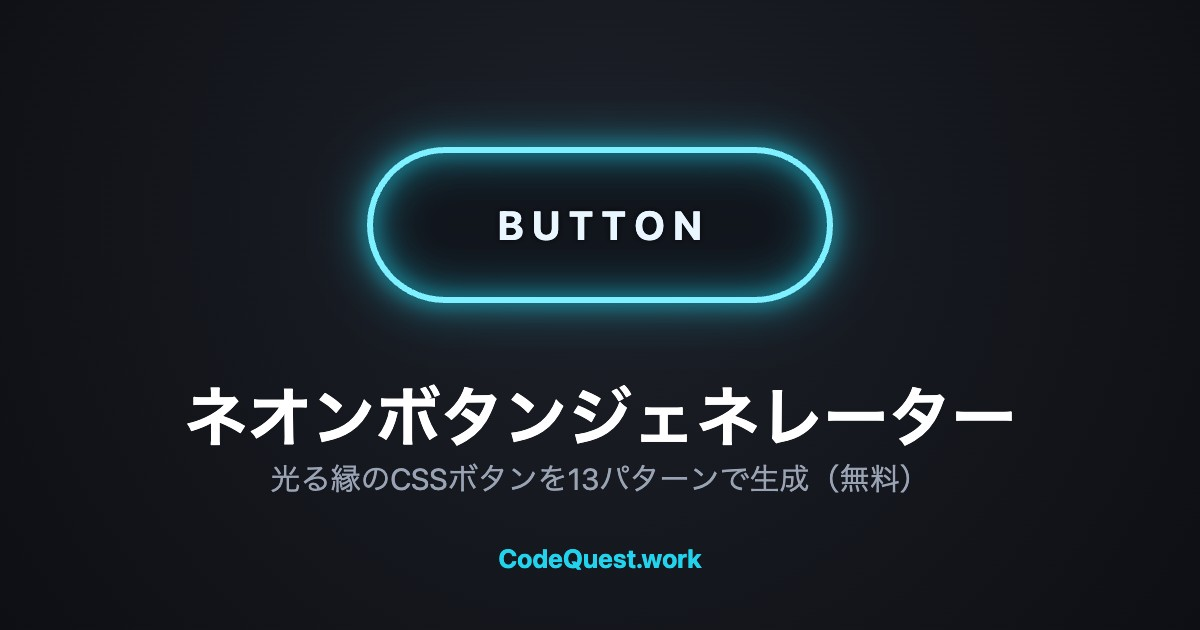
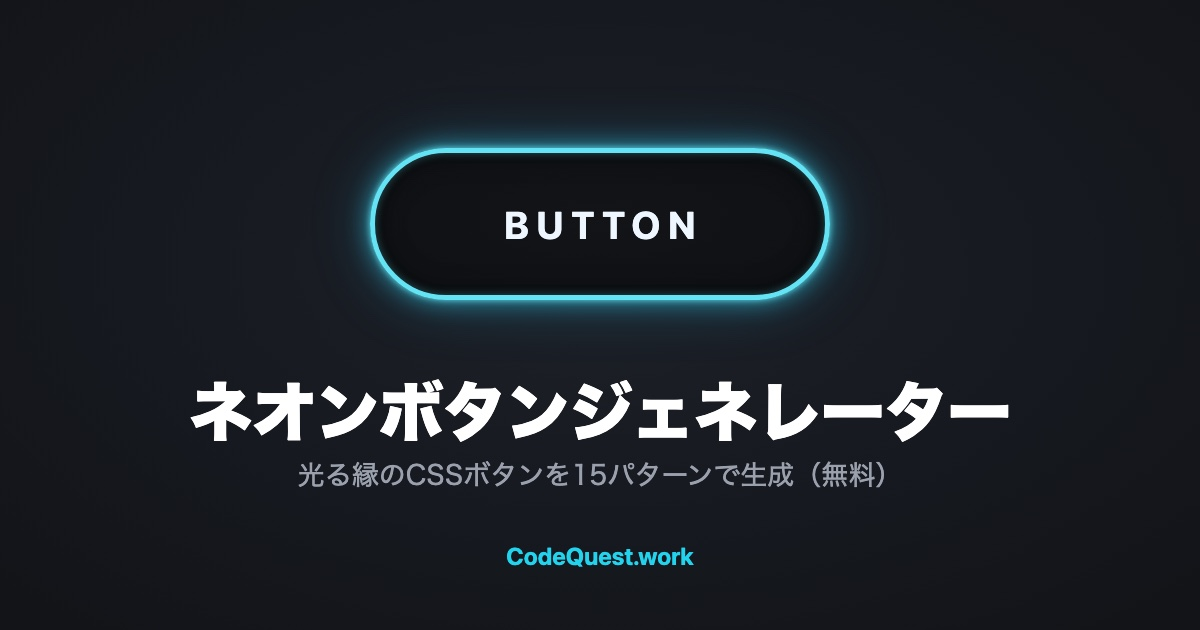
fix(neon-button-generator): og 画像の数を13パターンから実際の15パターンに直す（日英・?v=20261113a）
- 生成元のテンプレートを _src/neon-button-generator/og-template.html に残す（#en で英語）

diff --git a/neon-button-generator/index.html b/neon-button-generator/index.html
@@ -13,7 +13,7 @@
     <meta property="og:url" content="https://codequest.work/generator/neon-button-generator/" />
     <meta property="og:title" content="ネオンボタン ジェネレーター【無料】光る縁のCSSボタンを15種生成" />
     <meta property="og:description" content="SVGフィルタで縁(リム)が光るネオンボタンを作る無料ツール。15種の光パターンと自動アニメに対応し、コピペできるHTML/CSSを出力します。" />
-    <meta property="og:image" content="https://codequest.work/generator/neon-button-generator/assets/og.jpg" />
+    <meta property="og:image" content="https://codequest.work/generator/neon-button-generator/assets/og.jpg?v=20261113a" />
     <meta property="og:image:width" content="1200" />
     <meta property="og:image:height" content="630" />
     <meta property="og:site_name" content="CodeQuest.work" />
@@ -21,7 +21,7 @@
     <meta name="twitter:card" content="summary_large_image" />
     <meta name="twitter:title" content="ネオンボタン ジェネレーター【無料】光る縁のCSSボタンを生成" />
     <meta name="twitter:description" content="SVGフィルタで縁が光るCSSボタンを15種の光パターンで生成。コピペできるHTML/CSSを出力する無料ツール。" />
-    <meta name="twitter:image" content="https://codequest.work/generator/neon-button-generator/assets/og.jpg" />
+    <meta name="twitter:image" content="https://codequest.work/generator/neon-button-generator/assets/og.jpg?v=20261113a" />
     <script>
       (function (w, d, s, l, i) {
         w[l] = w[l] || [];
@@ -44,7 +44,7 @@
         "applicationCategory": "DesignApplication",
         "operatingSystem": "Web browser",
         "inLanguage": "ja",
-        "image": "https://codequest.work/generator/neon-button-generator/assets/og.jpg",
+        "image": "https://codequest.work/generator/neon-button-generator/assets/og.jpg?v=20261113a",
         "description": "SVGフィルタでボタンの縁(リム)だけを光らせるCSSボタンを生成する無料ツール。15種の光パターンと自動アニメに対応し、コピペできるHTML/CSSを出力します。",
         "offers": { "@type": "Offer", "price": "0", "priceCurrency": "USD" },
         "featureList": ["15種の光パターン（方向ライト/ポイント/アークシャイン/ビームグロー/グロスシャイン/ネオン/デュアル/グラデーション/トライ/パルス/チェイス/フリッカー/二重リム/アンダーグロー/コーナー）", "SVGフィルタによる縁の発光", "回転・明滅などの自動アニメーション出力", "色・サイズ・太さ・角丸の調整", "コピペできる自己完結のHTML/CSS出力"],

diff --git a/_src/neon-button-generator/og-template.html b/_src/neon-button-generator/og-template.html
@@ -1,0 +1,47 @@
+<!doctype html>
+<html lang="ja">
+<head>
+<meta charset="utf-8">
+<style>
+  html, body { margin: 0; padding: 0; }
+  body { width: 1200px; height: 630px; overflow: hidden; }
+  .og {
+    width: 1200px; height: 630px; position: relative;
+    background: radial-gradient(ellipse 70% 75% at 50% 42%, #1d2129 0%, #16191f 55%, #121418 100%);
+    font-family: "Hiragino Sans", "Hiragino Kaku Gothic ProN", -apple-system, system-ui, "Helvetica Neue", sans-serif;
+    color: #fff; text-align: center;
+  }
+  .btn {
+    position: absolute; left: 370px; top: 148px; width: 460px; height: 152px;
+    box-sizing: border-box; border-radius: 76px;
+    border: 5px solid #63e3f3;
+    background: radial-gradient(ellipse at 50% 45%, #121417 0%, #0e1013 100%);
+    box-shadow: 0 0 6px rgba(99,227,243,.9), 0 0 24px rgba(56,200,230,.7), 0 0 56px rgba(40,170,210,.35), inset 0 0 8px rgba(99,227,243,.35), inset 0 0 26px rgba(0,0,0,.6);
+    display: flex; align-items: center; justify-content: center;
+    font-family: -apple-system, system-ui, "Helvetica Neue", sans-serif; font-weight: 700; font-size: 38px; letter-spacing: .2em;
+    color: #eef6ff; padding-left: .2em;
+  }
+  .title { position: absolute; left: 0; right: 0; top: 380px; font-size: 64px; font-weight: 800; letter-spacing: -.01em; line-height: 1; }
+  .sub { position: absolute; left: 0; right: 0; top: 461px; font-size: 27px; font-weight: 400; color: #9aa1ad; line-height: 1; }
+  .brand { position: absolute; left: 0; right: 0; top: 544px; font-size: 24px; font-weight: 700; color: #22d3ee; line-height: 1; font-family: -apple-system, system-ui, "Helvetica Neue", sans-serif; }
+  body.en .title { font-family: -apple-system, system-ui, "Helvetica Neue", sans-serif; font-weight: 700; letter-spacing: -.02em; }
+  body.en .sub { font-family: -apple-system, system-ui, "Helvetica Neue", sans-serif; }
+</style>
+</head>
+<body>
+<div class="og">
+  <div class="btn">BUTTON</div>
+  <div class="title" id="title">ネオンボタンジェネレーター</div>
+  <div class="sub" id="sub">光る縁のCSSボタンを15パターンで生成（無料）</div>
+  <div class="brand">CodeQuest.work</div>
+</div>
+<script>
+  if (location.hash === "#en") {
+    document.body.classList.add("en");
+    document.documentElement.lang = "en";
+    document.getElementById("title").textContent = "Neon Button Generator";
+    document.getElementById("sub").textContent = "15 glowing CSS button styles, with copy-paste code";
+  }
+</script>
+</body>
+</html>

diff --git a/neon-button-generator/en/index.html b/neon-button-generator/en/index.html
@@ -13,7 +13,7 @@
     <meta property="og:url" content="https://codequest.work/generator/neon-button-generator/en/" />
     <meta property="og:title" content="Neon Button Generator — 15 Glowing CSS Button Styles (Free)" />
     <meta property="og:description" content="Free tool to create CSS buttons with a glowing rim using SVG filters. 15 light patterns with auto animation. Copy-paste HTML/CSS." />
-    <meta property="og:image" content="https://codequest.work/generator/neon-button-generator/assets/og-en.jpg" />
+    <meta property="og:image" content="https://codequest.work/generator/neon-button-generator/assets/og-en.jpg?v=20261113a" />
     <meta property="og:image:width" content="1200" />
     <meta property="og:image:height" content="630" />
     <meta property="og:site_name" content="CodeQuest.work" />
@@ -21,7 +21,7 @@
     <meta name="twitter:card" content="summary_large_image" />
     <meta name="twitter:title" content="Neon Button Generator — 15 Glowing CSS Button Styles" />
     <meta name="twitter:description" content="Create CSS buttons with a glowing rim using SVG filters. 15 light patterns with auto animation. Copy-paste HTML/CSS. Free." />
-    <meta name="twitter:image" content="https://codequest.work/generator/neon-button-generator/assets/og-en.jpg" />
+    <meta name="twitter:image" content="https://codequest.work/generator/neon-button-generator/assets/og-en.jpg?v=20261113a" />
     <script>
       (function (w, d, s, l, i) {
         w[l] = w[l] || [];
@@ -44,7 +44,7 @@
         "applicationCategory": "DesignApplication",
         "operatingSystem": "Web browser",
         "inLanguage": "en",
-        "image": "https://codequest.work/generator/neon-button-generator/assets/og-en.jpg",
+        "image": "https://codequest.work/generator/neon-button-generator/assets/og-en.jpg?v=20261113a",
         "description": "Free tool that creates CSS buttons with a glowing rim using SVG filters. 15 light patterns with auto animation, and copy-paste, self-contained HTML/CSS output.",
         "offers": { "@type": "Offer", "price": "0", "priceCurrency": "USD" },
         "featureList": ["15 light patterns (directional, point, arc shine, beam glow, gloss shine, neon, dual, gradient, tri, pulse, chase, flicker, double rim, underglow, corner)", "Rim glow rendered with SVG filters", "Auto animation output (rotation, pulse and more)", "Color, size, thickness and corner-radius controls", "Copy-paste, self-contained HTML/CSS output"],

diff --git a/neon-button-generator/howto.html b/neon-button-generator/howto.html
@@ -13,7 +13,7 @@
     <meta property="og:url" content="https://codequest.work/generator/neon-button-generator/howto.html" />
     <meta property="og:title" content="ネオンボタンジェネレーターの使い方｜15種の光パターン早見表・手順とFAQ" />
     <meta property="og:description" content="SVGフィルタで縁が光るCSSボタンを作る3ステップ、15種の光パターン早見表、自動アニメーション、対応ブラウザ、よくある質問をまとめた使い方ガイド。" />
-    <meta property="og:image" content="https://codequest.work/generator/neon-button-generator/assets/og.jpg" />
+    <meta property="og:image" content="https://codequest.work/generator/neon-button-generator/assets/og.jpg?v=20261113a" />
     <meta property="og:image:width" content="1200" />
     <meta property="og:image:height" content="630" />
     <meta property="og:site_name" content="CodeQuest.work" />
@@ -21,7 +21,7 @@
     <meta name="twitter:card" content="summary_large_image" />
     <meta name="twitter:title" content="ネオンボタンジェネレーターの使い方｜15種の光パターン早見表・FAQ" />
     <meta name="twitter:description" content="SVGフィルタで縁が光るCSSボタンを作る3ステップ、15種の光パターン早見表、対応ブラウザ、FAQ。" />
-    <meta name="twitter:image" content="https://codequest.work/generator/neon-button-generator/assets/og.jpg" />
+    <meta name="twitter:image" content="https://codequest.work/generator/neon-button-generator/assets/og.jpg?v=20261113a" />
 
     <script type="application/ld+json">
       {

diff --git a/neon-button-generator/en/howto.html b/neon-button-generator/en/howto.html
@@ -13,7 +13,7 @@
     <meta property="og:url" content="https://codequest.work/generator/neon-button-generator/en/howto.html" />
     <meta property="og:title" content="How to Use the Neon Button Generator — 15 Glow Patterns & FAQ" />
     <meta property="og:description" content="A 3-step workflow to make glowing-rim CSS buttons with SVG filters, a reference table of all 15 light patterns, auto animation, browser support, and FAQ." />
-    <meta property="og:image" content="https://codequest.work/generator/neon-button-generator/assets/og-en.jpg" />
+    <meta property="og:image" content="https://codequest.work/generator/neon-button-generator/assets/og-en.jpg?v=20261113a" />
     <meta property="og:image:width" content="1200" />
     <meta property="og:image:height" content="630" />
     <meta property="og:site_name" content="CodeQuest.work" />
@@ -21,7 +21,7 @@
     <meta name="twitter:card" content="summary_large_image" />
     <meta name="twitter:title" content="How to Use the Neon Button Generator — 15 Glow Patterns & FAQ" />
     <meta name="twitter:description" content="A 3-step workflow to make glowing-rim CSS buttons, a table of all 15 light patterns, browser support, and FAQ." />
-    <meta name="twitter:image" content="https://codequest.work/generator/neon-button-generator/assets/og-en.jpg" />
+    <meta name="twitter:image" content="https://codequest.work/generator/neon-button-generator/assets/og-en.jpg?v=20261113a" />
 
     <script type="application/ld+json">
       {
